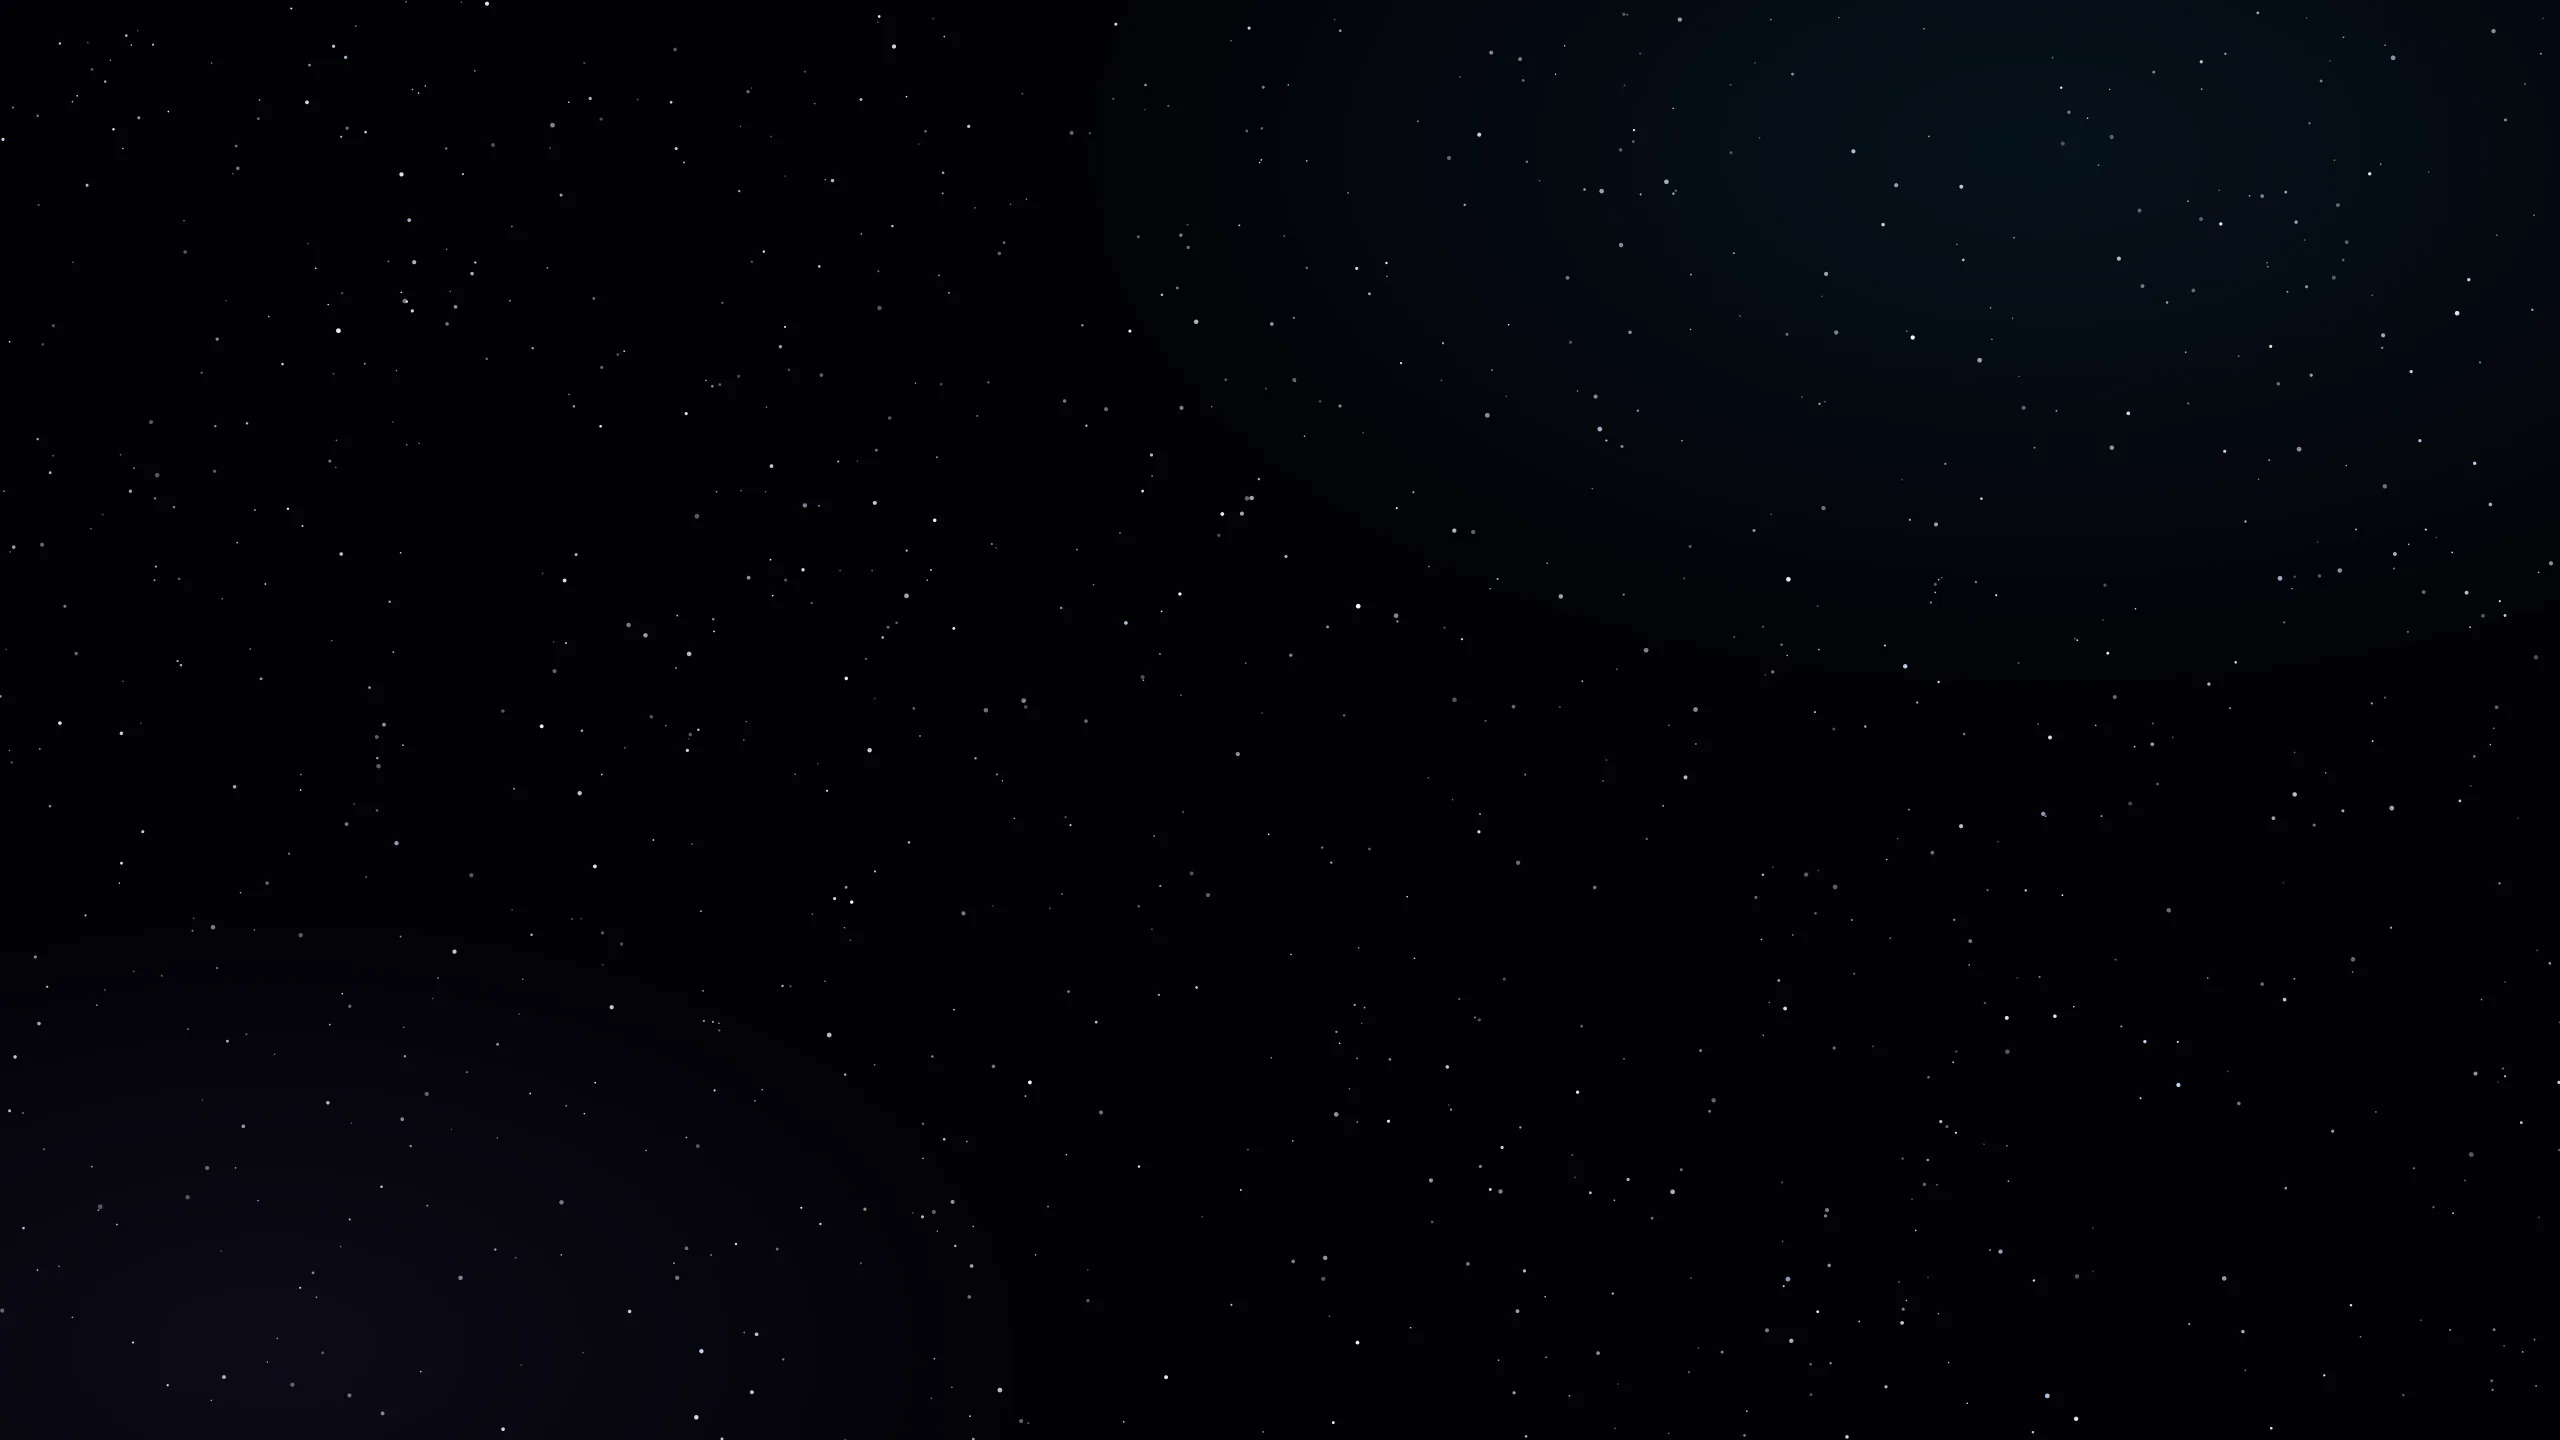
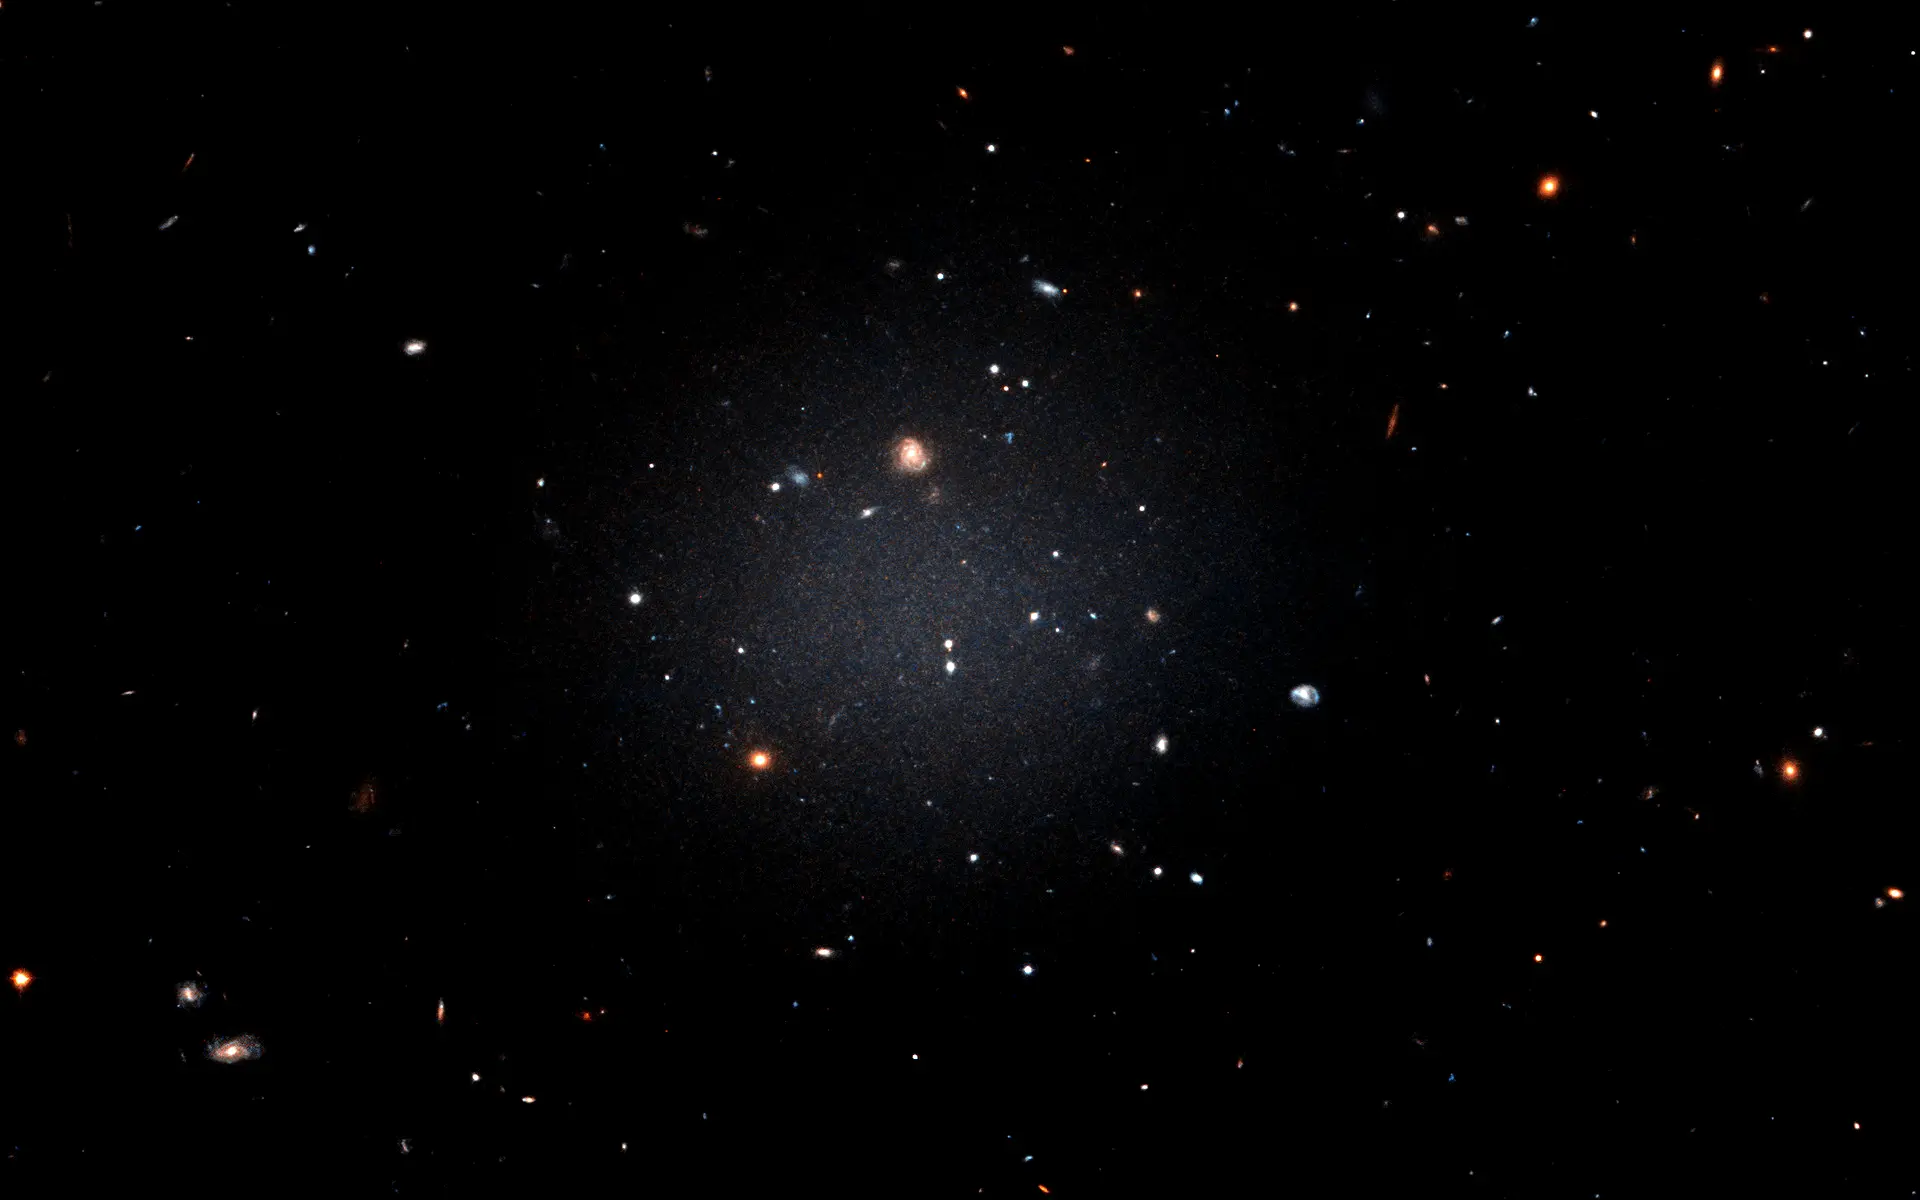
feat(showcase): use a real Hubble deep-field photo as the cosmos backdrop
Replace the generated starfield with the ESA/Hubble image of NGC 1052-DF2 (heic1806a), with a visible, linked CC BY 4.0 credit in the bottom-right of the cosmos frame as the license requires. Remove scripts/bake-cosmos.{mjs,test.ts}: the generator is obsolete and its test overwrote the committed asset on every test run.

diff --git a/src/styles/showcase.css b/src/styles/showcase.css
@@ -22,6 +22,55 @@
   background: var(--space) url("../assets/showcase/cosmos.webp") center / cover;
 }
 
+/* Backdrop credit — sits in the bottom-right cosmos frame strip (the --showcase-pad band
+   below the Stage), aligned to the Stage's right edge. Muted-but-legible per CC BY 4.0:
+   visible at rest, brightening on hover. z-index lifts it above the transparent .to so the
+   links stay clickable. Absolute within .showcase, so it only shows on the Showcase. */
+.cosmos-credit {
+  position: absolute;
+  right: var(--showcase-pad);
+  bottom: 0;
+  height: var(--showcase-pad);
+  z-index: 2;
+  margin: 0;
+  display: flex;
+  align-items: center;
+  gap: 0.5ch;
+  font-family: var(--font-geist);
+  font-style: italic;
+  font-size: clamp(0.56rem, 1.6vw, 0.72rem);
+  letter-spacing: 0.01em;
+  line-height: 1;
+  color: rgba(255, 255, 255, 0.5);
+  white-space: nowrap;
+}
+.cosmos-credit__mark {
+  font-style: normal;
+  font-size: 0.62em;
+  color: rgba(255, 255, 255, 0.4);
+}
+/* Drop the decorative mark on narrow viewports so the full (mandatory) credit fits. */
+@media (max-width: 380px) {
+  .cosmos-credit__mark {
+    display: none;
+  }
+}
+.cosmos-credit__sep {
+  opacity: 0.5;
+}
+.cosmos-credit a {
+  color: inherit;
+  text-decoration: none;
+  border-bottom: 1px solid transparent;
+  transition: color 0.2s ease, border-color 0.2s ease;
+}
+.cosmos-credit a:hover,
+.cosmos-credit a:focus-visible {
+  color: rgba(255, 255, 255, 0.92);
+  border-bottom-color: rgba(255, 255, 255, 0.35);
+  outline: none;
+}
+
 /* the Showcase section — transparent (no background) so the cosmos shows through as the
    frame. position:relative contains the absolutely-positioned .to. */
 .showcase {